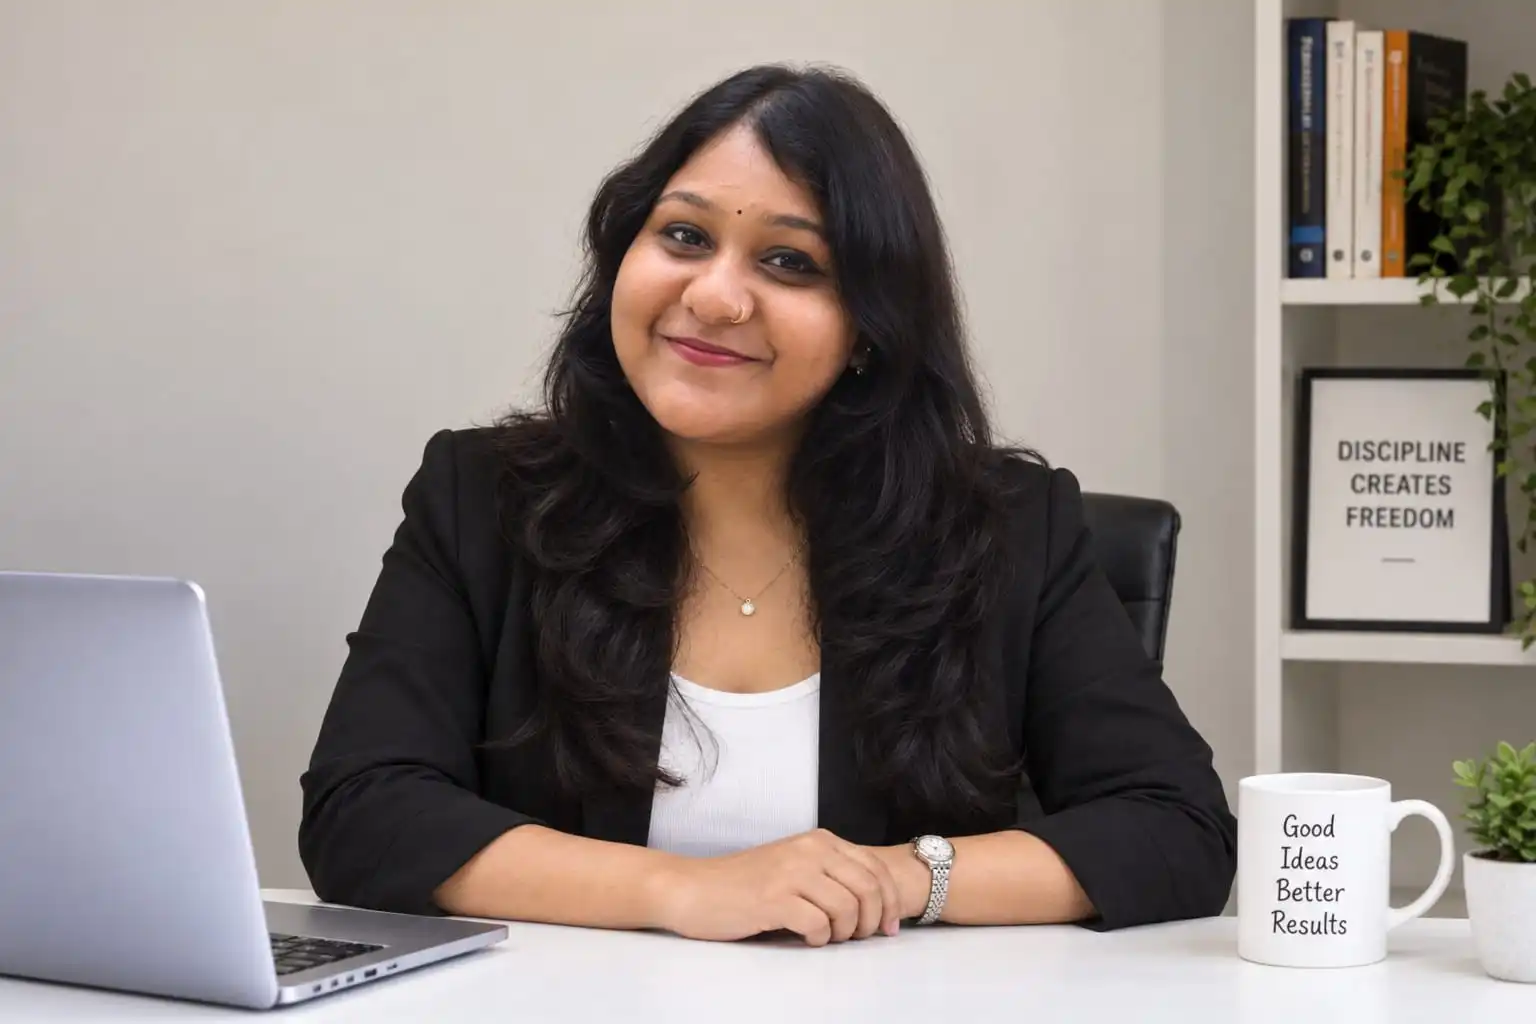
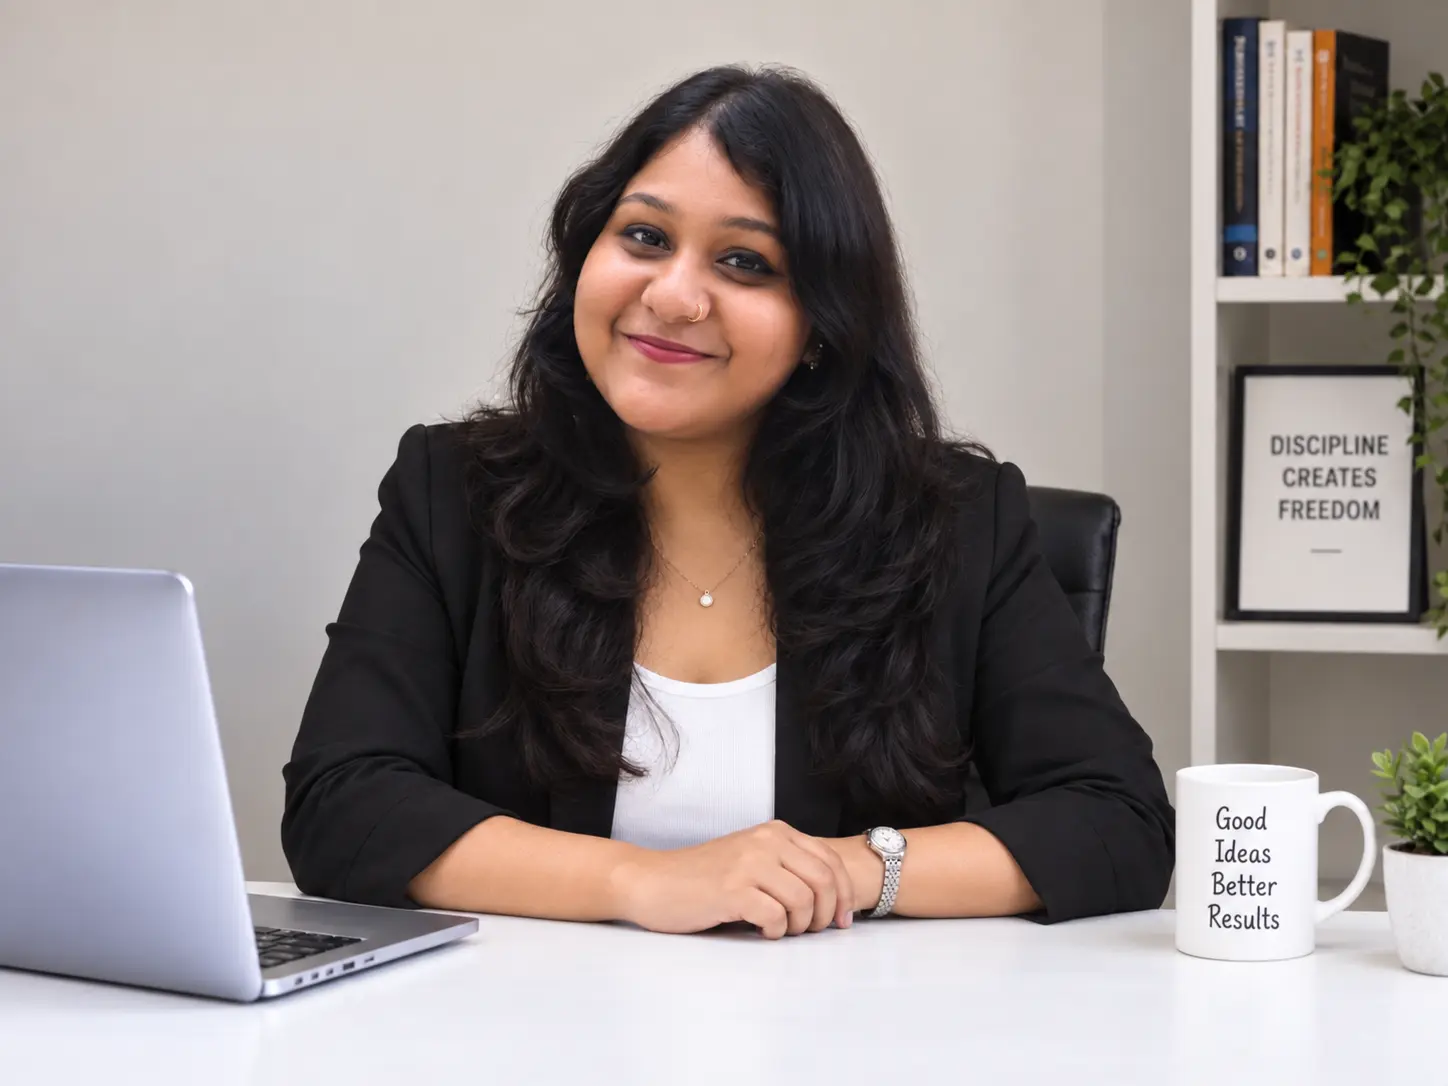
Updated existing code

diff --git a/index.html b/index.html
@@ -322,7 +322,7 @@
 
 
                         <a
-                            href="mailto:sayonita.das@email.com"
+                            href="mailto:sayonita110904@gmail.com"
                             class="secondary-button"
                         >
 
@@ -1451,7 +1451,7 @@
 
 
                     <a
-                        href="mailto:sayonita.das@email.com"
+                        href="mailto:sayonita110904@gmail.com"
                         class="contact-button"
                     >
                         Email Me
@@ -1500,7 +1500,7 @@
             <div class="footer-contact">
 
 
-                <a href="mailto:sayonita.das@email.com">
+                <a href="mailto:sayonita110904@gmail.com">
 
                     <svg
                         viewBox="0 0 24 24"
@@ -1511,13 +1511,13 @@
                         />
                     </svg>
 
-                    sayonita.das@email.com
+                    sayonita110904@gmail.com
 
                 </a>
 
 
 
-                <a href="tel:+919876543210">
+                <a href="tel:+91 8918435071">
 
                     <svg
                         viewBox="0 0 24 24"
@@ -1528,7 +1528,7 @@
                         />
                     </svg>
 
-                    +91 98765 43210
+                    +91 8918435071
 
                 </a>
 
